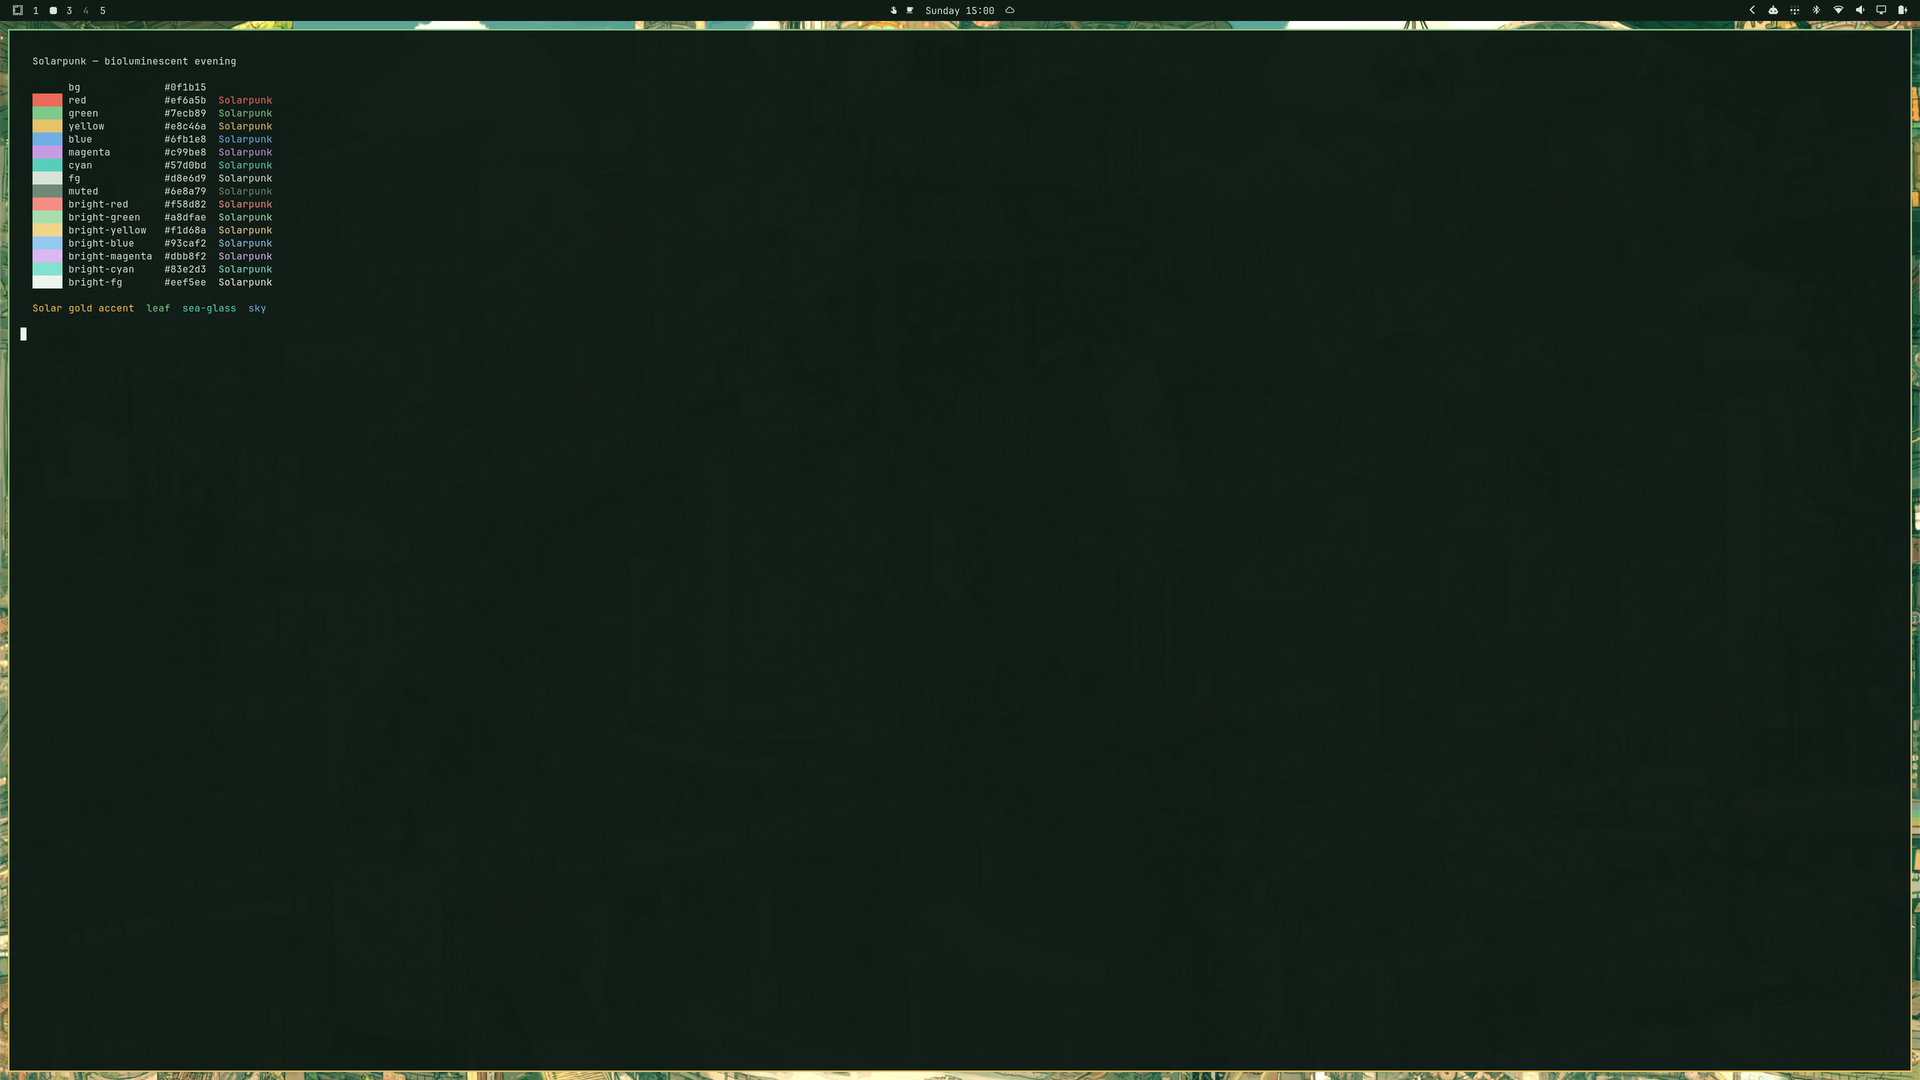
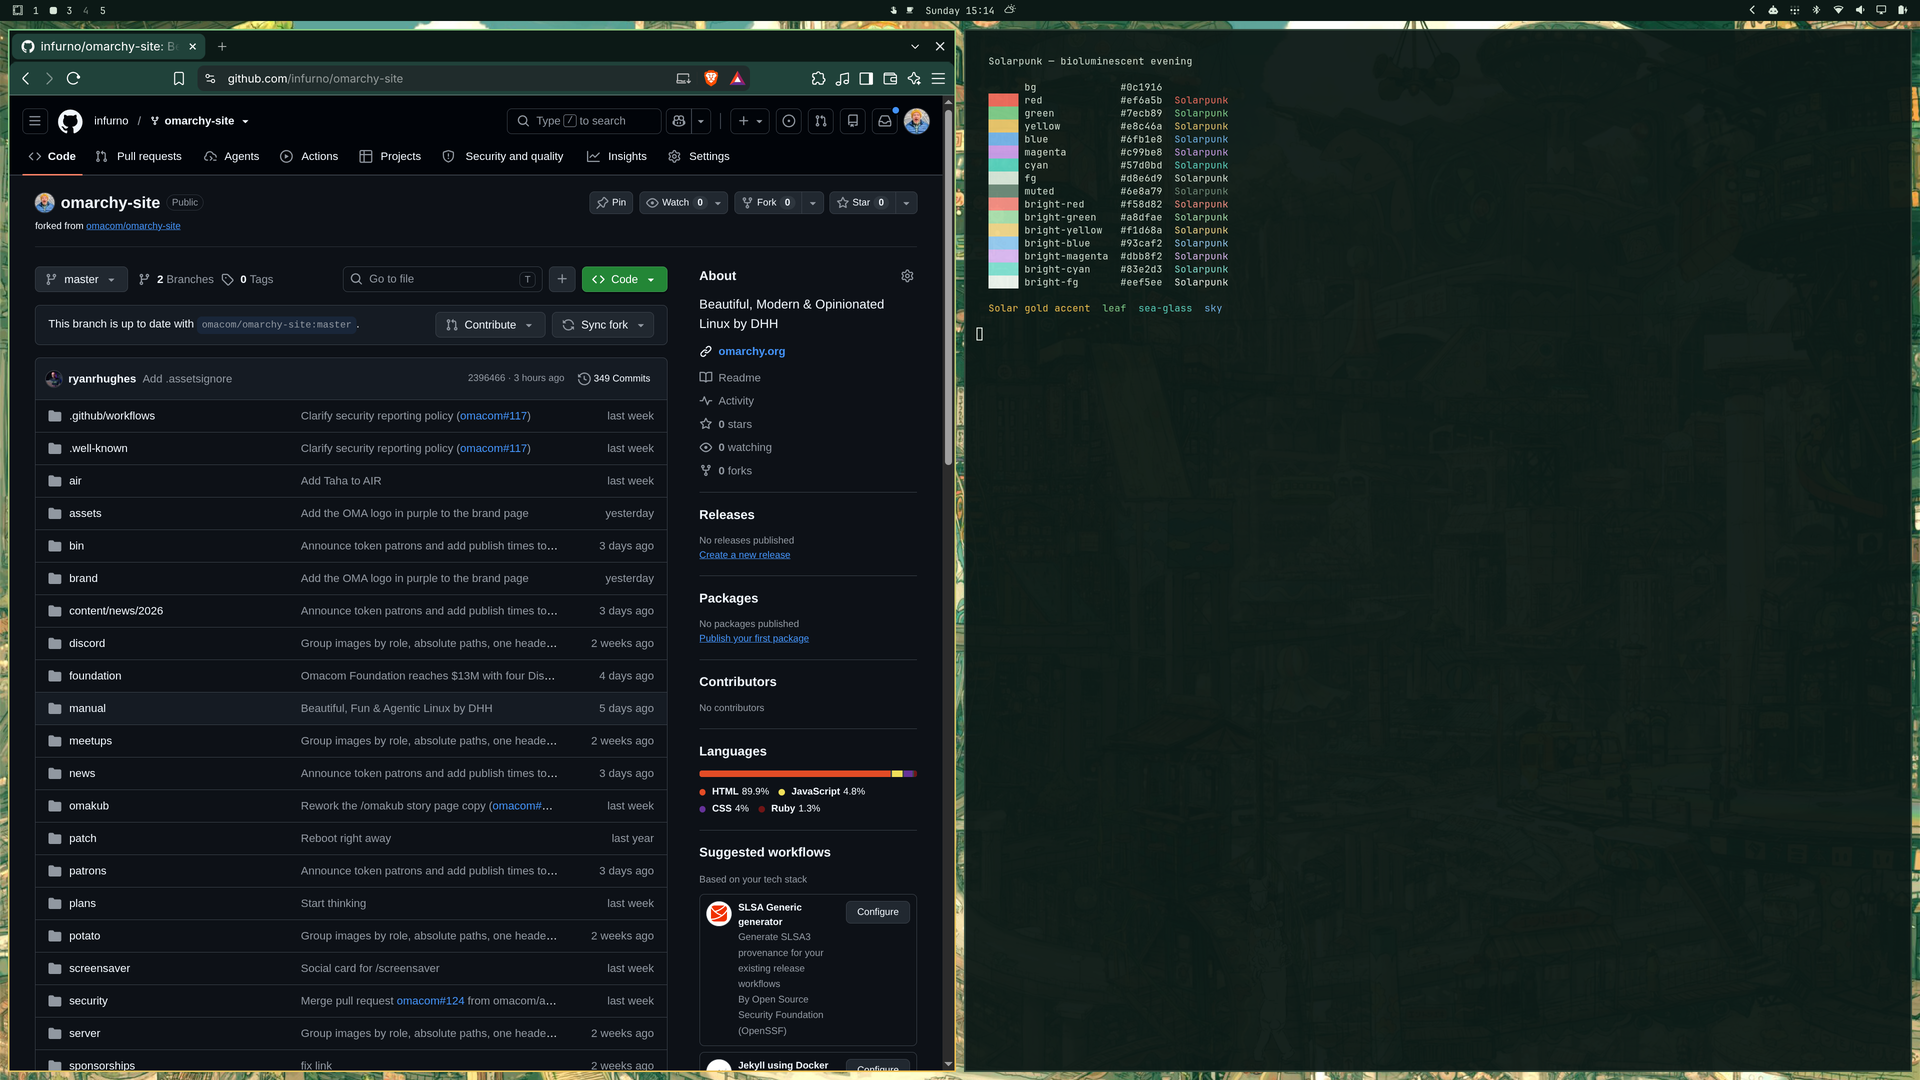
Retune background to cool conifer #0c1916
Shifts the dark base ~19deg toward teal (hue 166 vs 147) so the theme
reads distinctly from Forest Green's #0f1a14 while keeping the same
night depth. Re-derived dark/darker/lighter backgrounds, selection
tint, ANSI color0, palette docs, and gallery preview.

Changed region(s): [[0.0, 0.0, 0.6562, 1.0], [0.0312, 0.55, 0.0938, 1.0], [0.1875, 0.2444, 0.2188, 0.275]]

diff --git a/README.md b/README.md
@@ -1,6 +1,6 @@
 # Omarchy Solarpunk Theme
 
-A dark, bioluminescent-evening theme for Omarchy: deep conifer-night
+A dark, bioluminescent-evening theme for Omarchy: cool conifer-night
 backgrounds, luminous leaf and sea-glass syntax, and a solar-gold accent.
 Nature first, technology as its scaffold.
 
@@ -17,7 +17,7 @@ or paste the URL into *Install > Style > Theme* from the Omarchy menu
 
 ## Palette
 
-- Background: `#0f1b15`
+- Background: `#0c1916`
 - Foreground: `#d8e6d9`
 - Accent (solar gold): `#f2c14e`
 - Leaf green: `#7ecb89`
